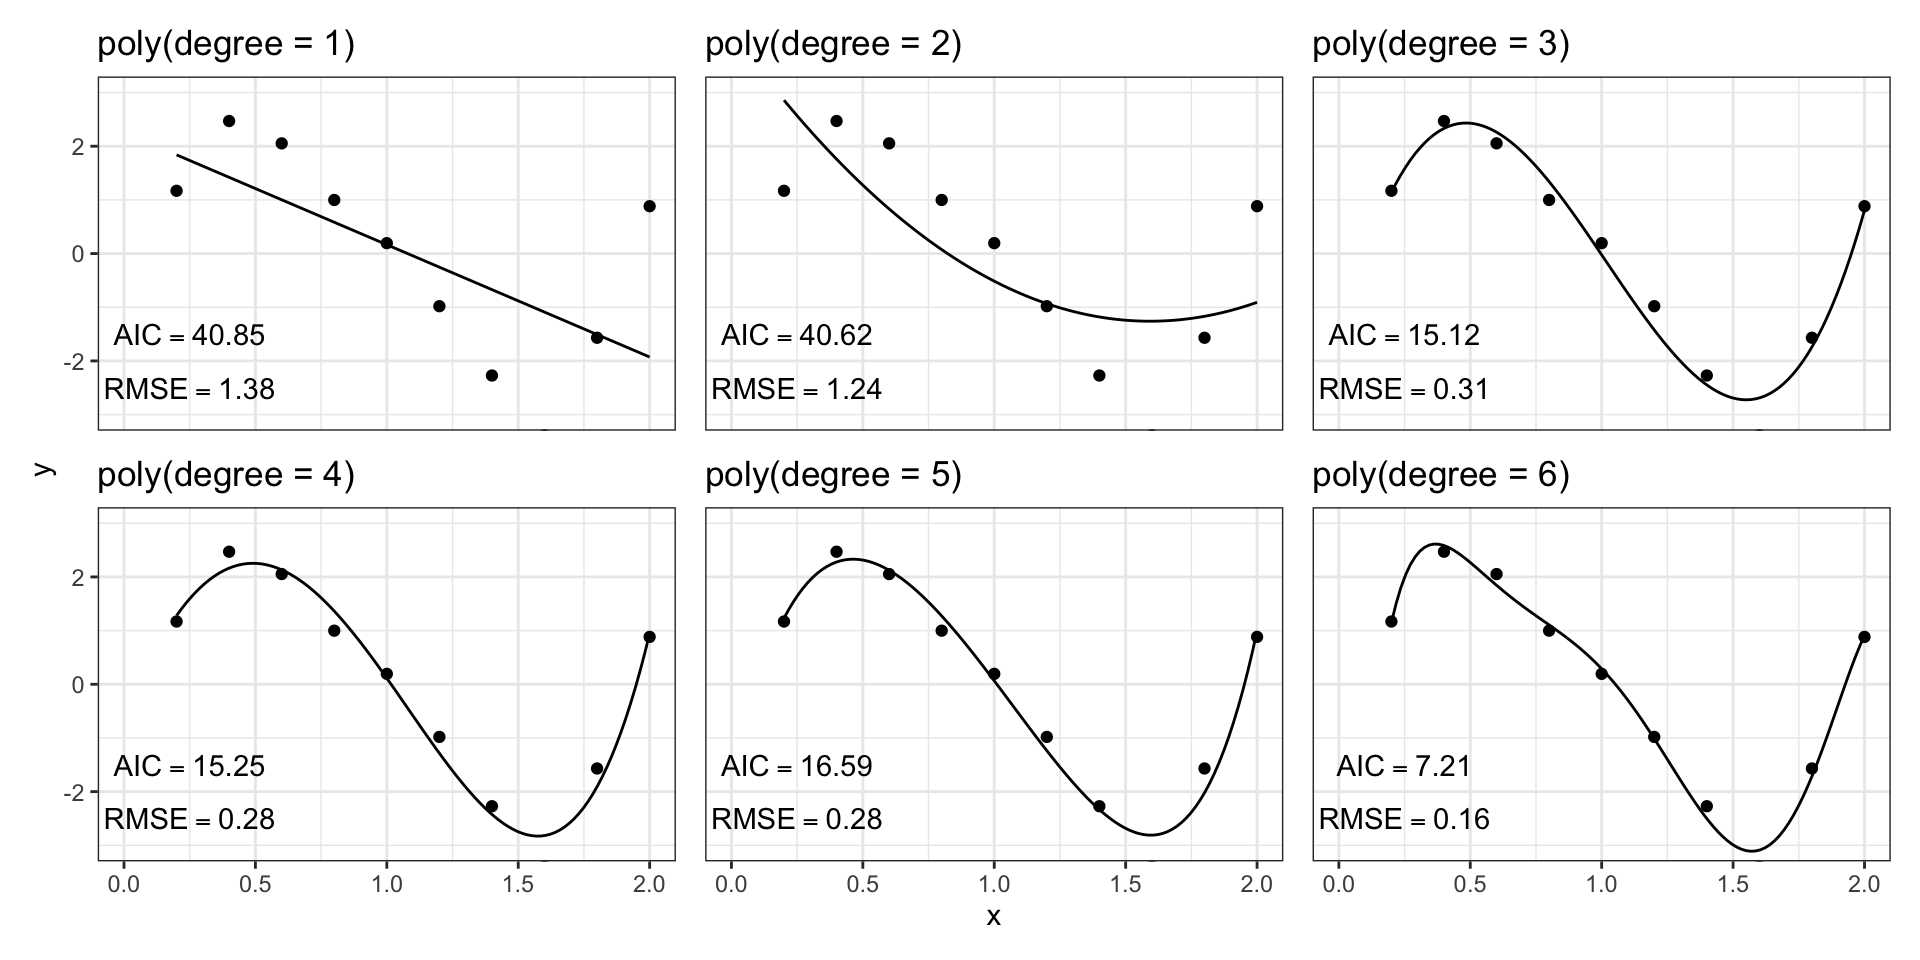
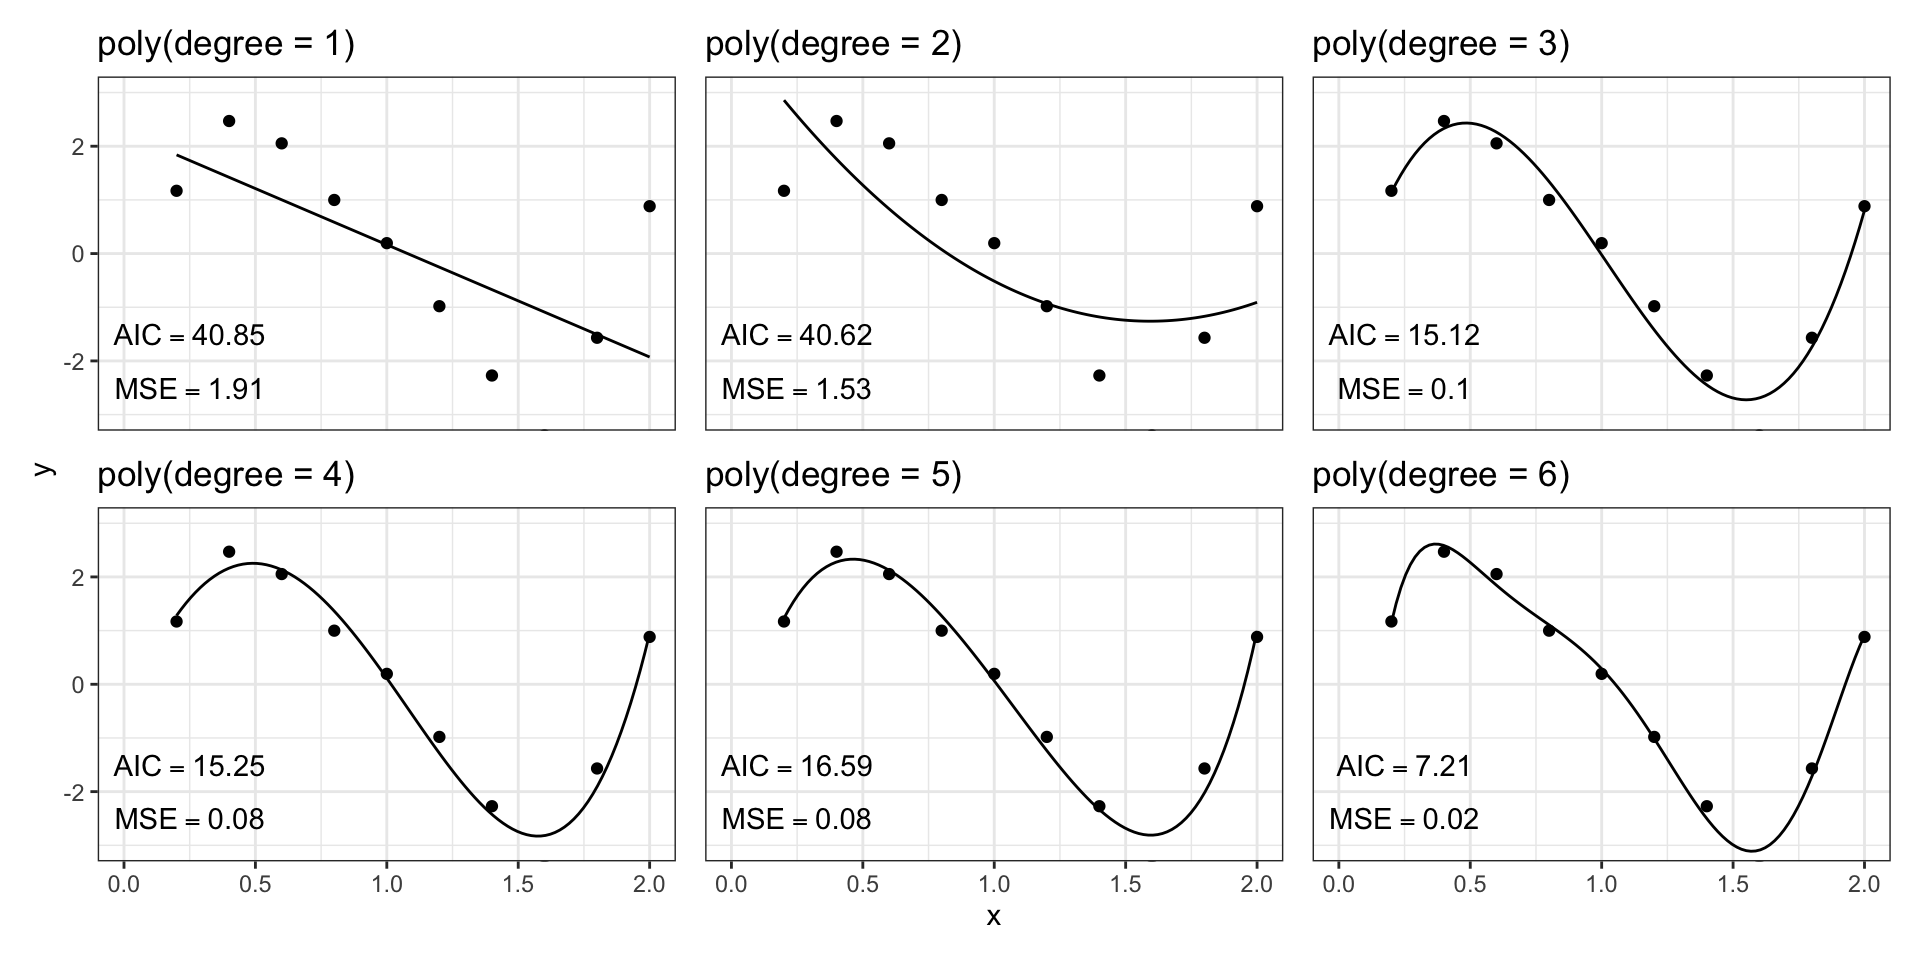
RMSE to MSE

diff --git a/index.html b/index.html
@@ -316,7 +316,7 @@ Which model should I choose?
 <li class="fragment">Test set selection
 <ul>
 <li class="fragment">Random</li>
-<li class="fragment">Ordered data</li>
+<li class="fragment">Ordered/grouped data</li>
 </ul></li>
 </ul>
 </div><div class="column" style="width:40%;">
